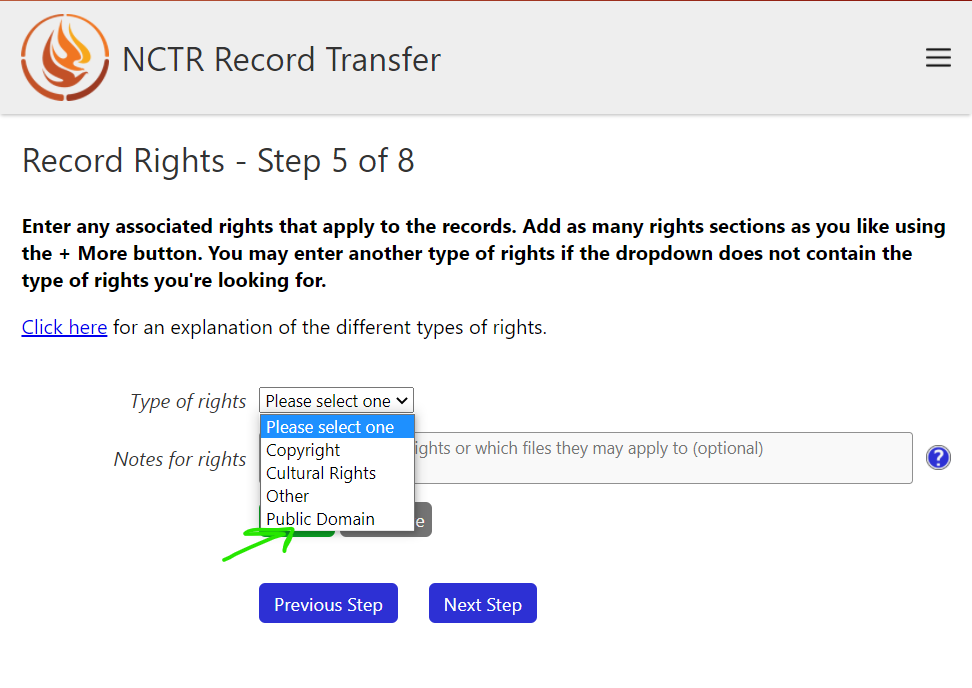
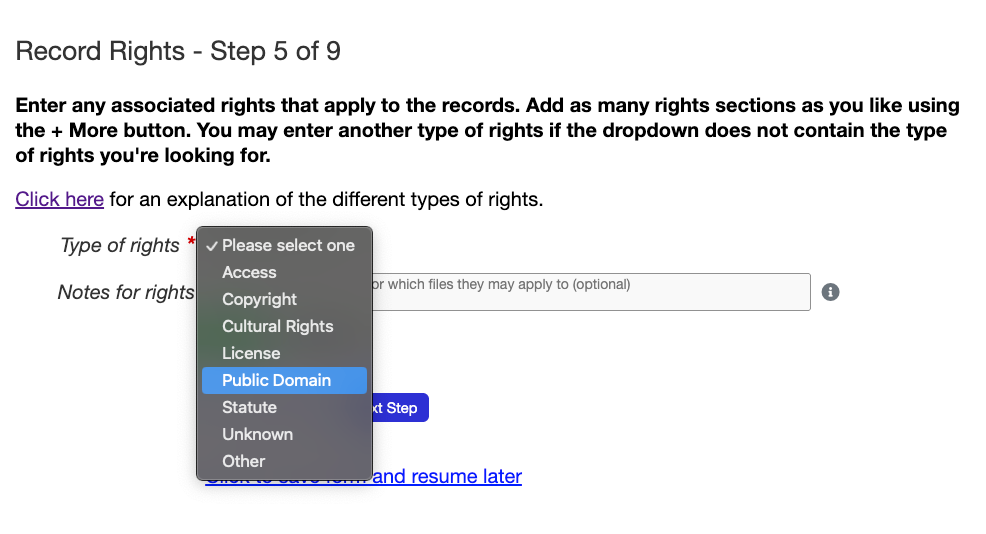
Update Add New Terms section, update and add images

diff --git a/docs/admin_guide/adding_terms.rst b/docs/admin_guide/adding_terms.rst
@@ -1,0 +1,89 @@
+Adding Terms
+============
+
+To be inclusive of different types of transfers, the record transfer application allows for the
+creation of various taxonomies. These include Rights Types, Source Roles, and Source Types that
+users can select from when entering information for their submission. Some default terms are
+included in the application, but you can remove them or add new terms to better fit the needs of
+your organization.
+
+To add new taxonomy terms, log in to a staff or super user account and go to the administrator
+application (accessible at /admin/).
+
+Adding Rights Types
+-------------------
+
+To add new Rights Types, click on **Rights Types** in the admin interface.
+
+.. image:: images/admin_rights_types.png
+    :alt: Rights Types link in admin app
+
+Next, click **Add Right Type**.
+
+.. image:: images/admin_add_rights_type.png
+    :alt: Add Rights Type link on Right Types admin page
+
+The name you enter into the **Name:** box will be added to the list of selections in the dropdown
+when a user adds rights in Step 5: Record Rights of the Submission Form.
+
+Click Save when you are satisfied with the new right type.
+
+.. image:: images/admin_save_rights_type.png
+    :alt: Save button on Rights Type create page
+
+Now when a user makes it to the right form, the new right type (in this case, "Public Domain") will
+show up in the dropdown.
+
+.. image:: images/new_right_dropdown.png
+    :alt: New right type in rights dropdown
+
+The right type's name and description will also show up in the rights explanation section on the
+About page.
+
+.. image:: images/new_right_explanation.png
+    :alt: New right type in rights explanation
+
+
+Adding Source Types
+-------------------
+
+New source types can be added in a similar way to rights types. To add new Source Types, click on
+**Source Types** in the admin interface.
+
+Next, click **Add Source Type**.
+
+Enter an appropriate description and click Save when complete.
+
+The name you enter will now appear in the dropdown when users are defining sources in Step 3:
+Source Information of the Submission Form.
+
+.. image:: images/new_source_type_dropdown.png
+    :alt: New source type in source dropdown
+
+The source type's name and description will also show up in the source type explanation section on
+the About page.
+
+.. image:: images/new_source_type_explanation.png
+    :alt: New source type in source explanation
+
+Adding Source Roles
+-------------------
+
+New source roles can be added in a similar way to rights types. To add new Source Roles, click on
+**Source Roles** in the admin interface.
+
+Next, click **Add Source Role**.
+
+Enter an appropriate description and click Save when complete.
+
+The name you enter will now appear in the dropdown when users are defining sources in Step 3: 
+Source Information of the Submission Form.
+
+.. image:: images/new_source_role_dropdown.png
+    :alt: New source role in source dropdown
+
+The source role's name and description will also show up in the source role explanation section on
+the About page.
+
+.. image:: images/new_source_role_explanation.png
+    :alt: New source role in source explanation
